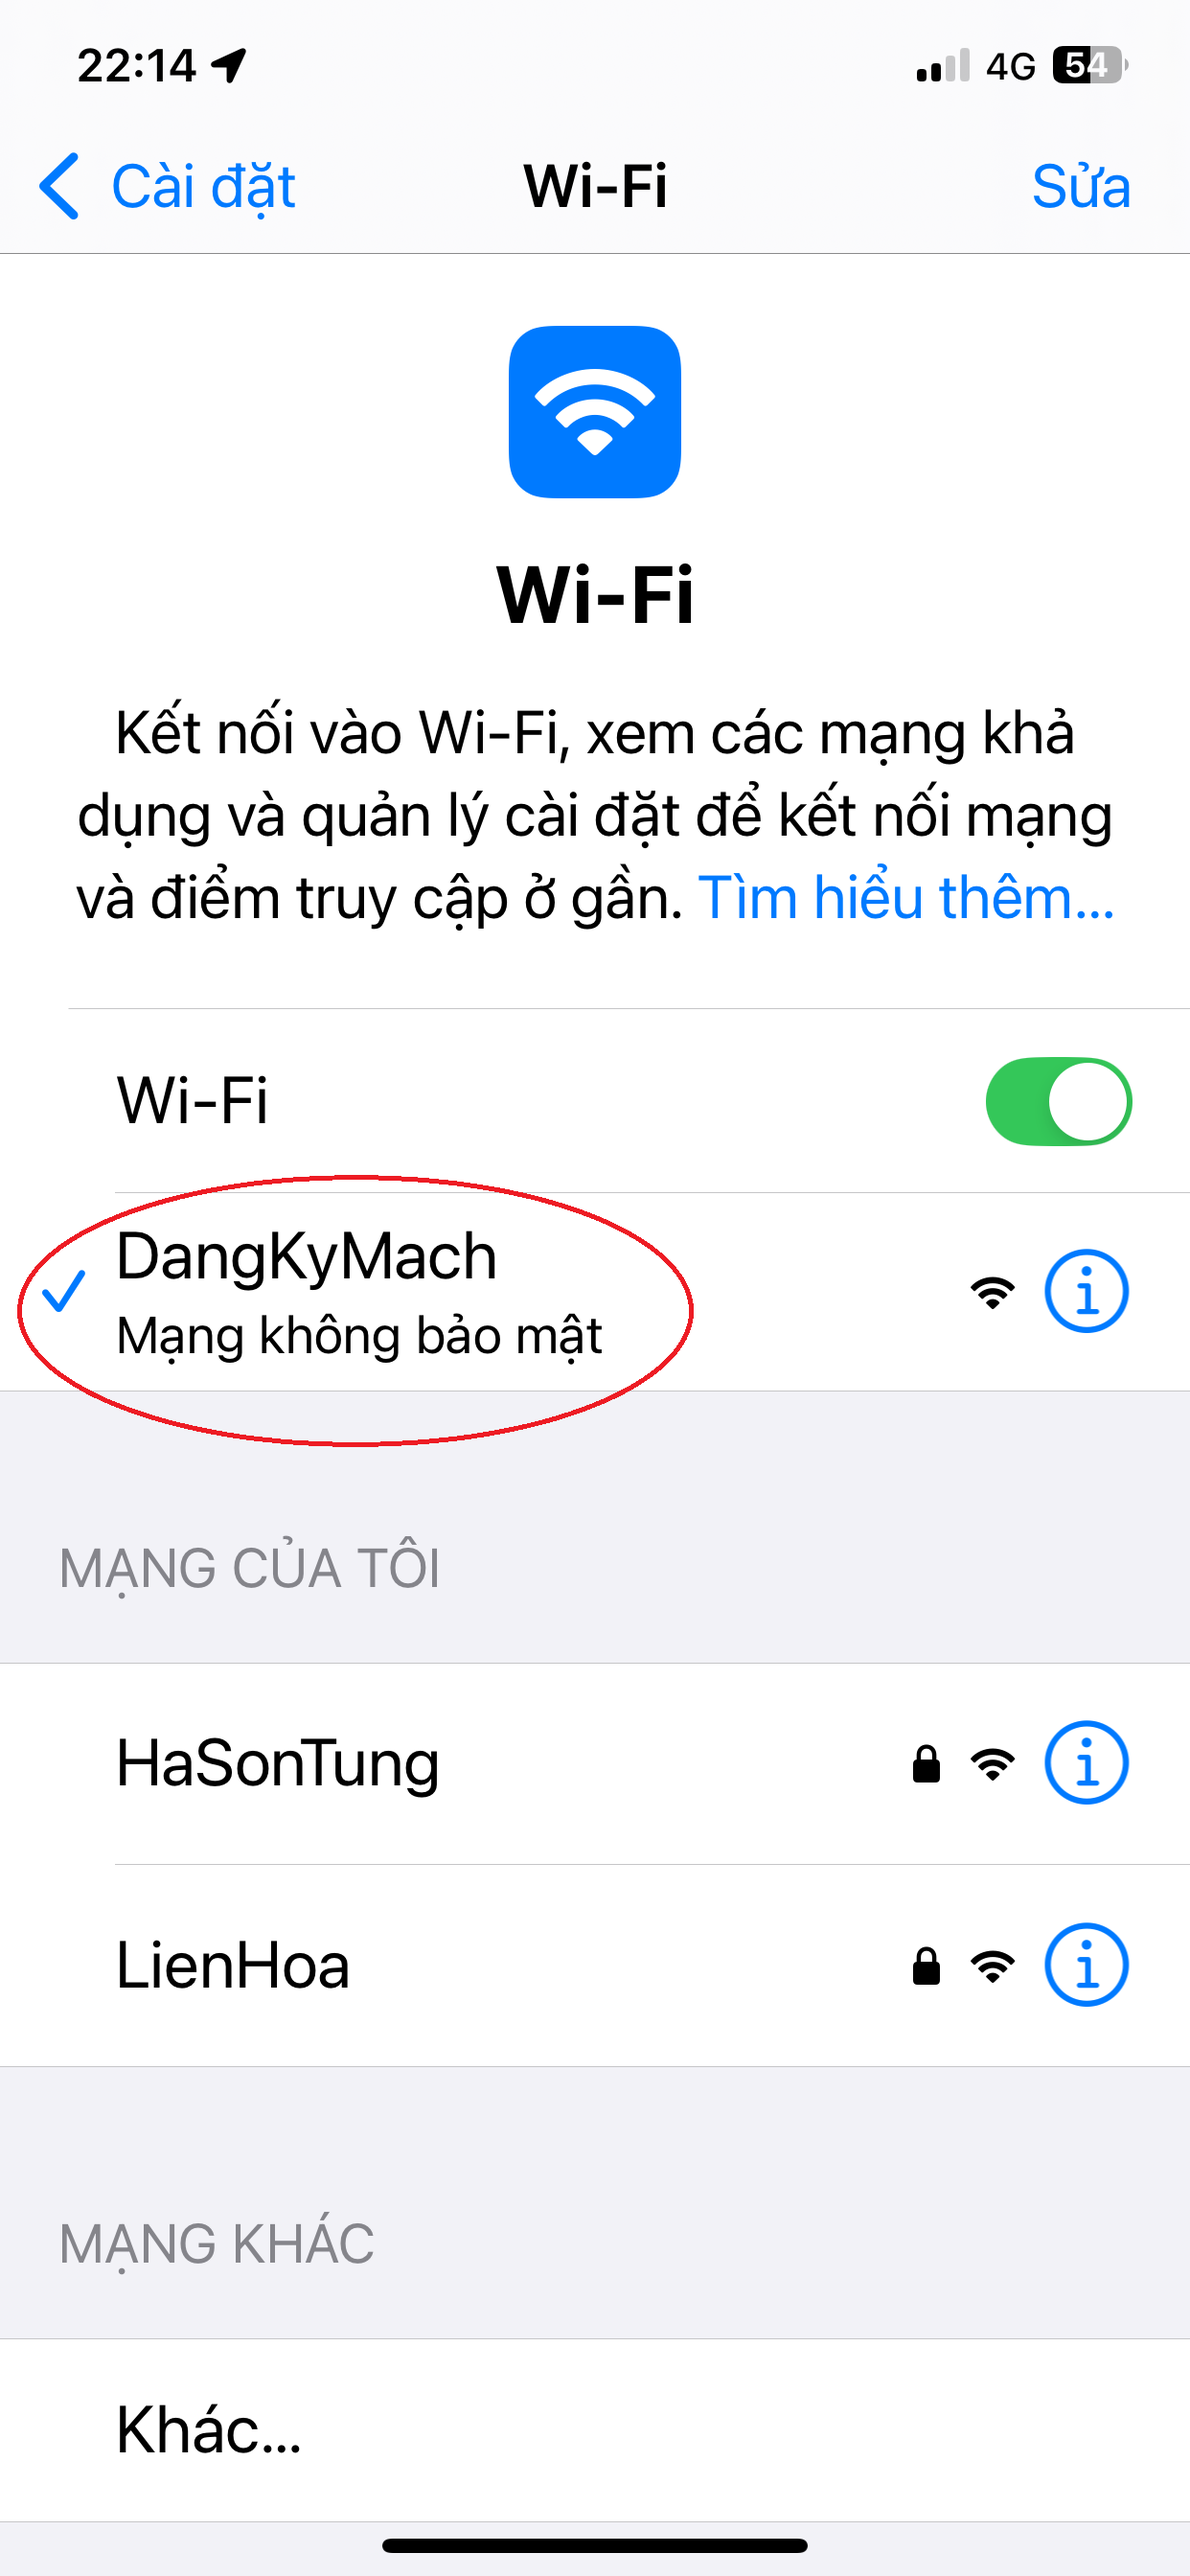
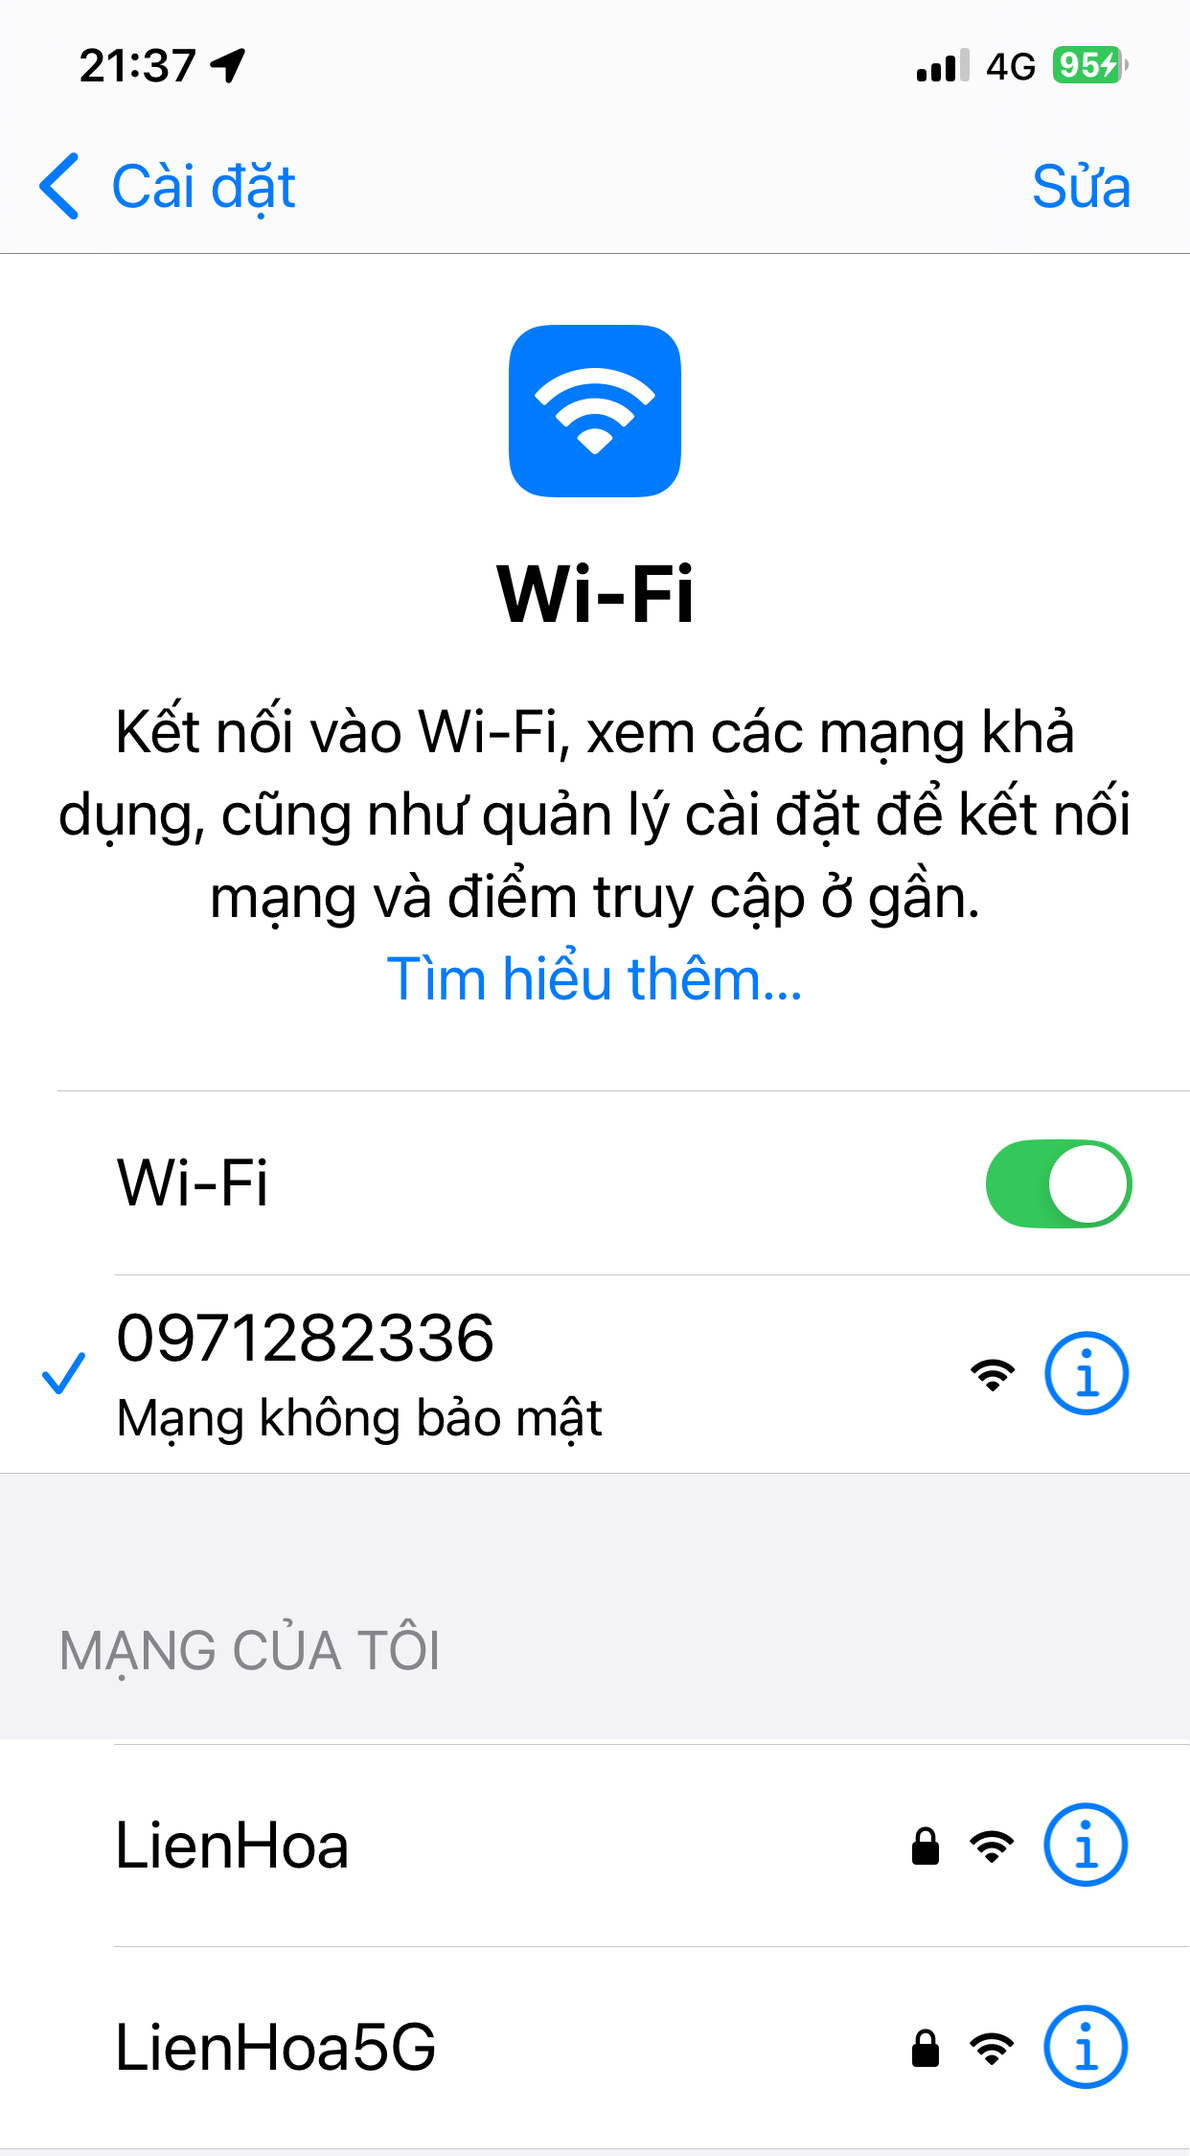
Add files via upload

diff --git a/index.html b/index.html
@@ -526,19 +526,21 @@ input[type="file"] {
 <li>Bấm vào FLASH giống như hình dưới</li><br>
 <img width="40%" src="flash3.jpg"></img><br><br>
 <li>Chờ chương trình nạp xong và hiển thị dấu tích màu xanh giống như hình dưới là xong.</li><br>
-<img width="40%" src="flash4.jpg"></img><br><br>
-<li>Sau khi nạp xong, bạn cấp nguồn cho thiết bị, và truy cập vào wifi <span style=color:red>0971282336</span> do thiết bị phát ra.</li><br>
-<li>Bạn mở trình duyệt web rồi truy cập <span style=color:red>1.2.3.4</span></li><br>
-<img width="40%" src="ketnoi.jpg"></img><br><br>
+<img width="40%" src="flash4.jpg"></img><br><br><br>
+<li>Sau khi nạp xong phần mềm, bạn cấp nguồn cho thiết bị, và truy cập vào wifi <span style=color:red>0971282336</span> do thiết bị phát ra.</li><br><br>
+<img width="40%" src="KetNoi.PNG"></img><br><br><br>
+<li>Rồi mở trình duyệt web truy cập <span style=color:red>1.2.3.4</span><br><br>
+<img width="40%" src="ChonWifi.jpg"></img><br><br>
 <li>Bạn ghi nhớ địa chỉ MAC được hiển thị trên màn hình, sau đó chọn mạng wifi nhà bạn, nhập chính xác mật khẩu và bấm "Kết Nối" để thiết bị kết nối với wifi nhà bạn.</li><br>
-<li>Bạn dùng điện thoại android vào CHplay cài ứng dụng Network Analyzer để xem địa chỉ IP nội bộ của công tơ điện.</li><br>
-<img width="40%" src="ipnoibo.jpg"></img><br><br>
+<li>Dùng điện thoại android vào CHplay cài ứng dụng Network Analyzer để xem địa chỉ IP nội bộ của công tơ điện.</li><br>
+<img width="40%" src="ipnoibo.jpg"></img><br><br><br>
 <li>Sau khi đã biết được IP nội bộ của công tơ điện, ví dụ là <span style=color:red>192.168.1.11</span> như hình trên, bạn vào trình duyệt web nhập địa chỉ IP nội bộ để tiến hành cài đặt lệnh cho lần đầu sử dụng đầu tiêntrên.</li><br>
 - Bạn nhập lệnh: <span style=color:red>chaylandau</span>
 <h3>Hướng dẫn đồng bộ dữ liệu lên Google Sheet</h3>
-- Mỗi một bảng tính google sheet sẽ có một ID riêng biệt.<br>
 <iframe width="560" height="315" src="https://www.youtube.com/embed/RUMqmZPsydE?si=P6AqRm4qeOFfV1ab" title="YouTube video player" frameborder="0" allow="accelerometer; autoplay; clipboard-write; encrypted-media; gyroscope; picture-in-picture; web-share" referrerpolicy="strict-origin-when-cross-origin" allowfullscreen></iframe>
-<br><br><br>- Link tạo ID bảng tính của google Sheet <a href="https://docs.google.com/spreadsheets/create">https://docs.google.com/spreadsheets/create</a><br>
+<br><br><br>
+- Mỗi một bảng tính google sheet sẽ có một ID riêng biệt.<br>
+- Link tạo ID bảng tính của google Sheet <a href="https://docs.google.com/spreadsheets/create">https://docs.google.com/spreadsheets/create</a><br>
 - Link quản lý các bảng tính Google Sheet đã tạo <a href="https://docs.google.com/spreadsheets/u/0/">https://docs.google.com/spreadsheets/u/0/</a><br>
 - Copy toàn bộ nội dung trong file ==> <a href="https://github.com/npbk21/congtodien/raw/main/App%20Script.txt">App Script.txt</a> và <a href="https://github.com/npbk21/congtodien/raw/main/LinkCheck.txt">LinkCheck.txt</a><br>
 Ví dụ chuỗi mới là <span style=color:blue>AKfycbxiL7rmnBRa0txRGtxwQeX2b12nb6g0hM9u</span><br>
